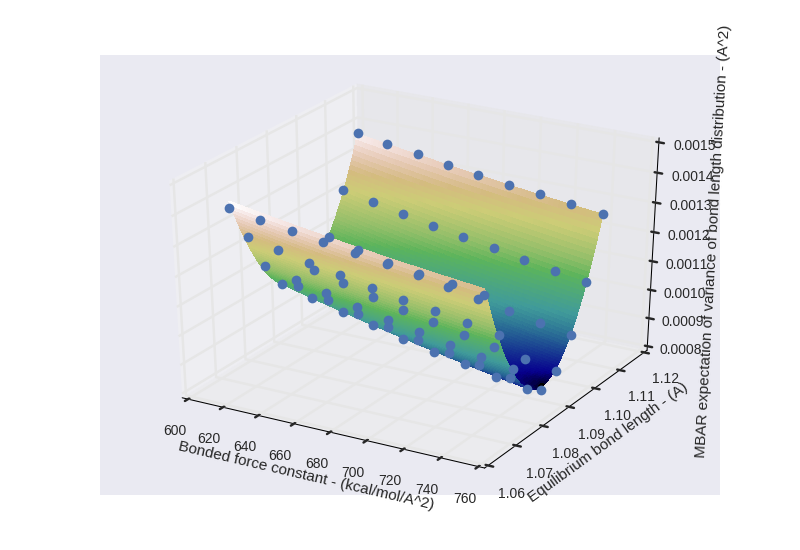
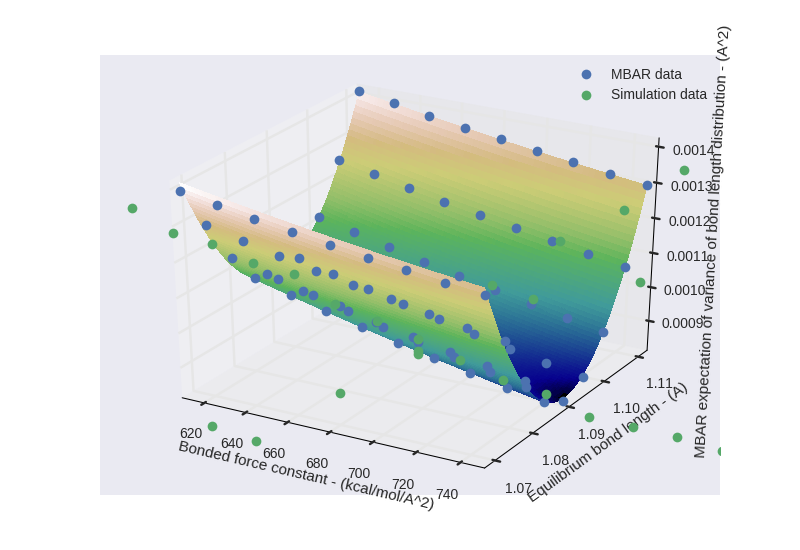
MBAR plots

diff --git a/single-molecule-property-generation/graph_bl.py b/single-molecule-property-generation/graph_bl.py
@@ -196,7 +196,7 @@ ax.legend()
 
 fg.canvas.draw()
 plt.savefig('bond_length_average_vs_k_length_w_fit_MBAR.png')
-sys.exit()
+
 # Plotting (see http://matplotlib.org/examples/mplot3d/custom_shaded_3d_surface.html):
 fg, ax = plt.subplots(subplot_kw=dict(projection='3d'))
 ls = LightSource(270, 45)
@@ -228,7 +228,12 @@ surf = ax.plot_surface(xxm, yym, zz_varm,cmap=cm.gist_earth, rstride=1, cstride=
 ax.set_xlabel('Bonded force constant - (kcal/mol/A^2)')
 ax.set_ylabel('Equilibrium bond length - (A)')
 ax.set_zlabel('MBAR expectation of variance of bond length distribution - (A^2)')
-ax.plot3D(x_varm, y_varm, z_varm, "o")
+ax.plot3D(x_varm, y_varm, z_varm, "o",label='MBAR data')
+ax.plot3D(x_var, y_var, z_var, "o",label='Simulation data')
+ax.set_xlim([x_varm.min(),x_varm.max()])
+ax.set_ylim([y_varm.min(),y_varm.max()])
+ax.set_zlim([z_varm.min(),z_varm.max()])
+ax.legend()
 
 #for i in np.arange(0, len(x_av)):
 #    ax.plot([x_var[i],x_var[i]], [y_var[i],y_var[i]], [z_var[i]-z_var_var[i], z_var[i]+z_var_var[i]], marker="_")
